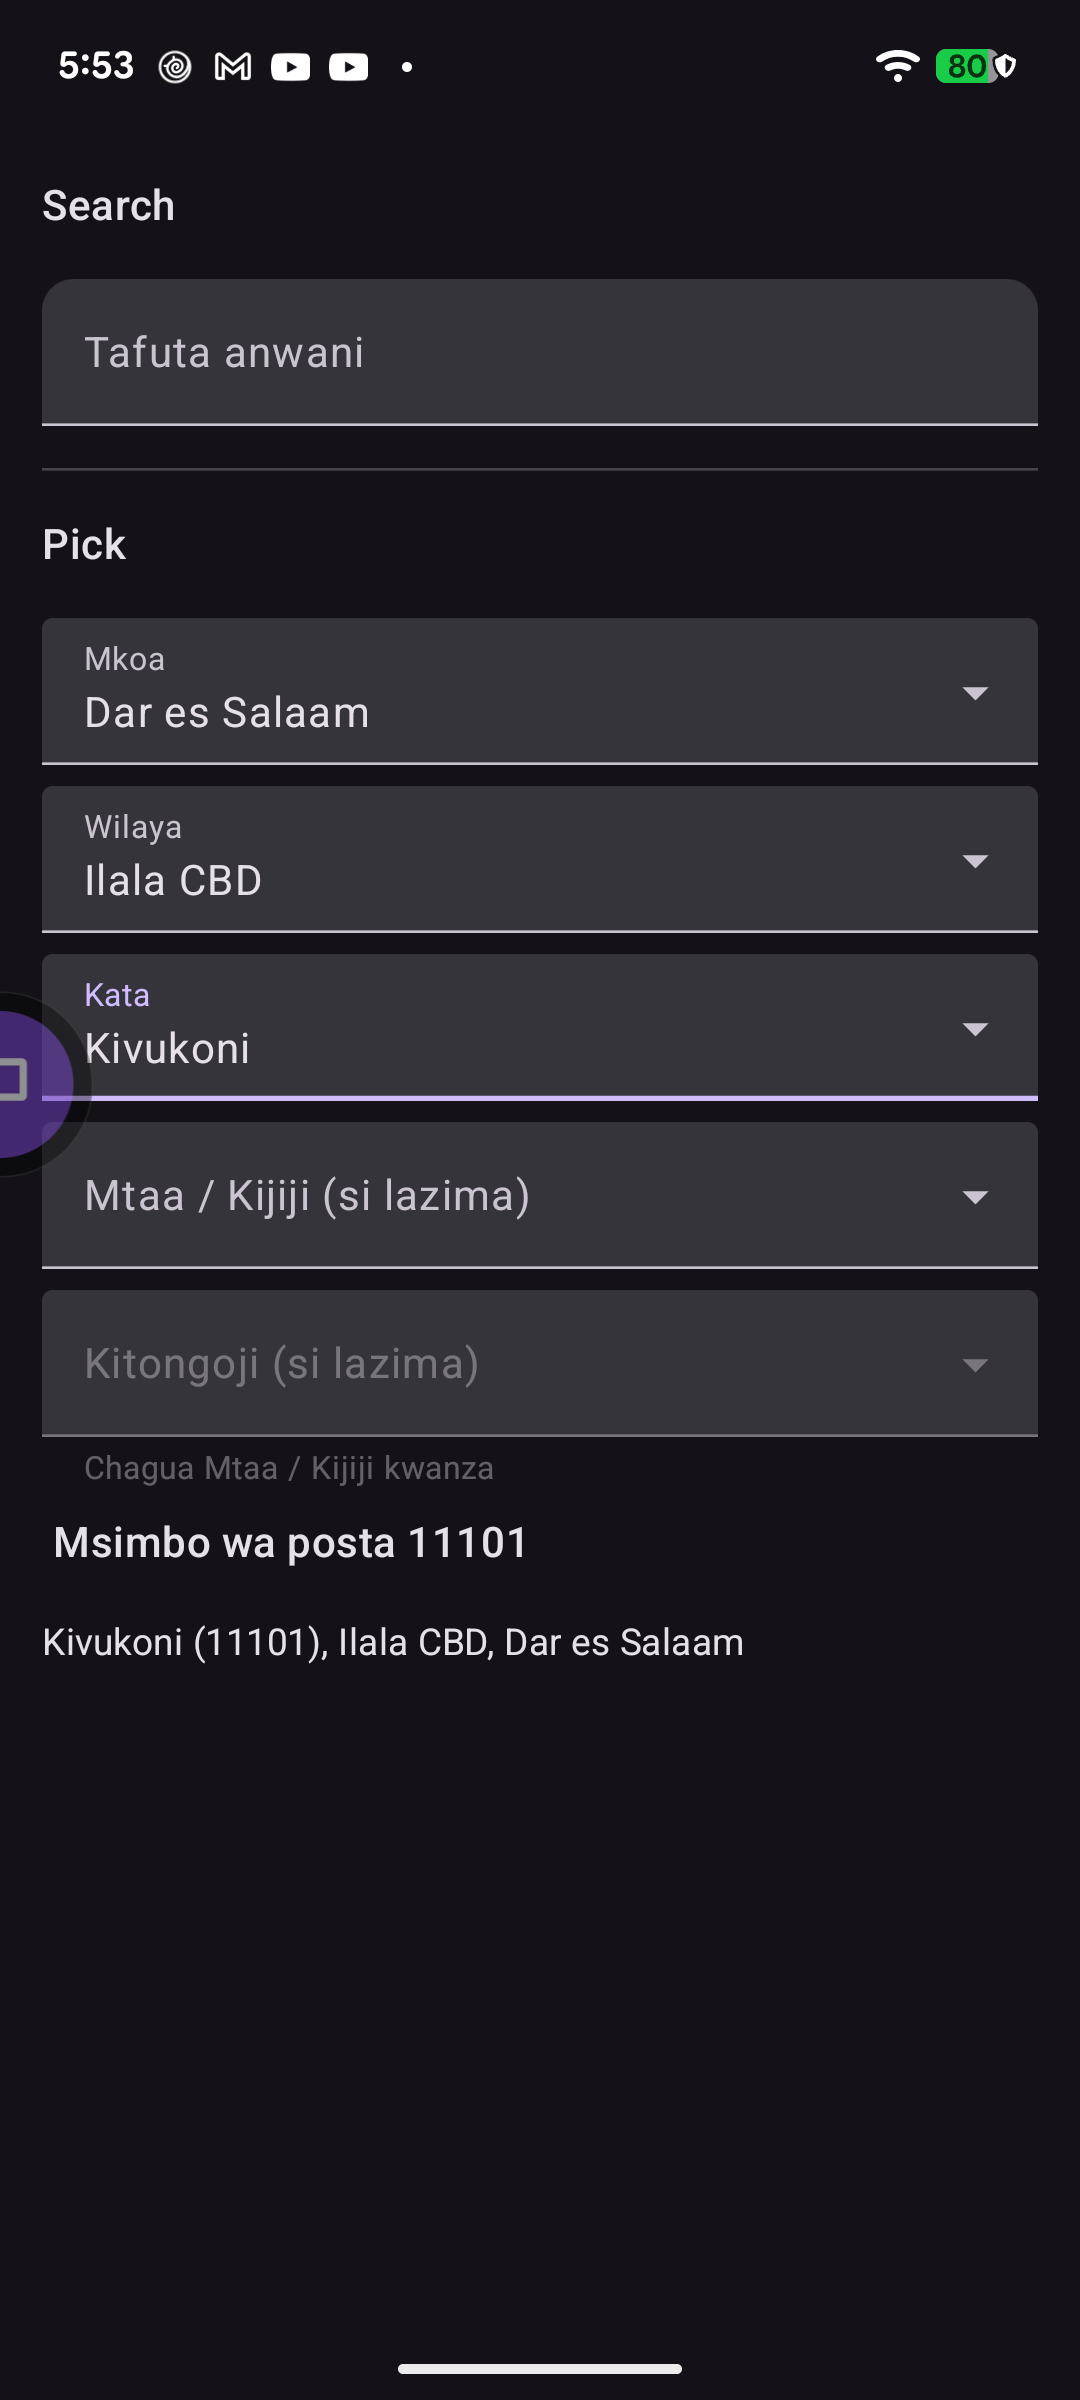
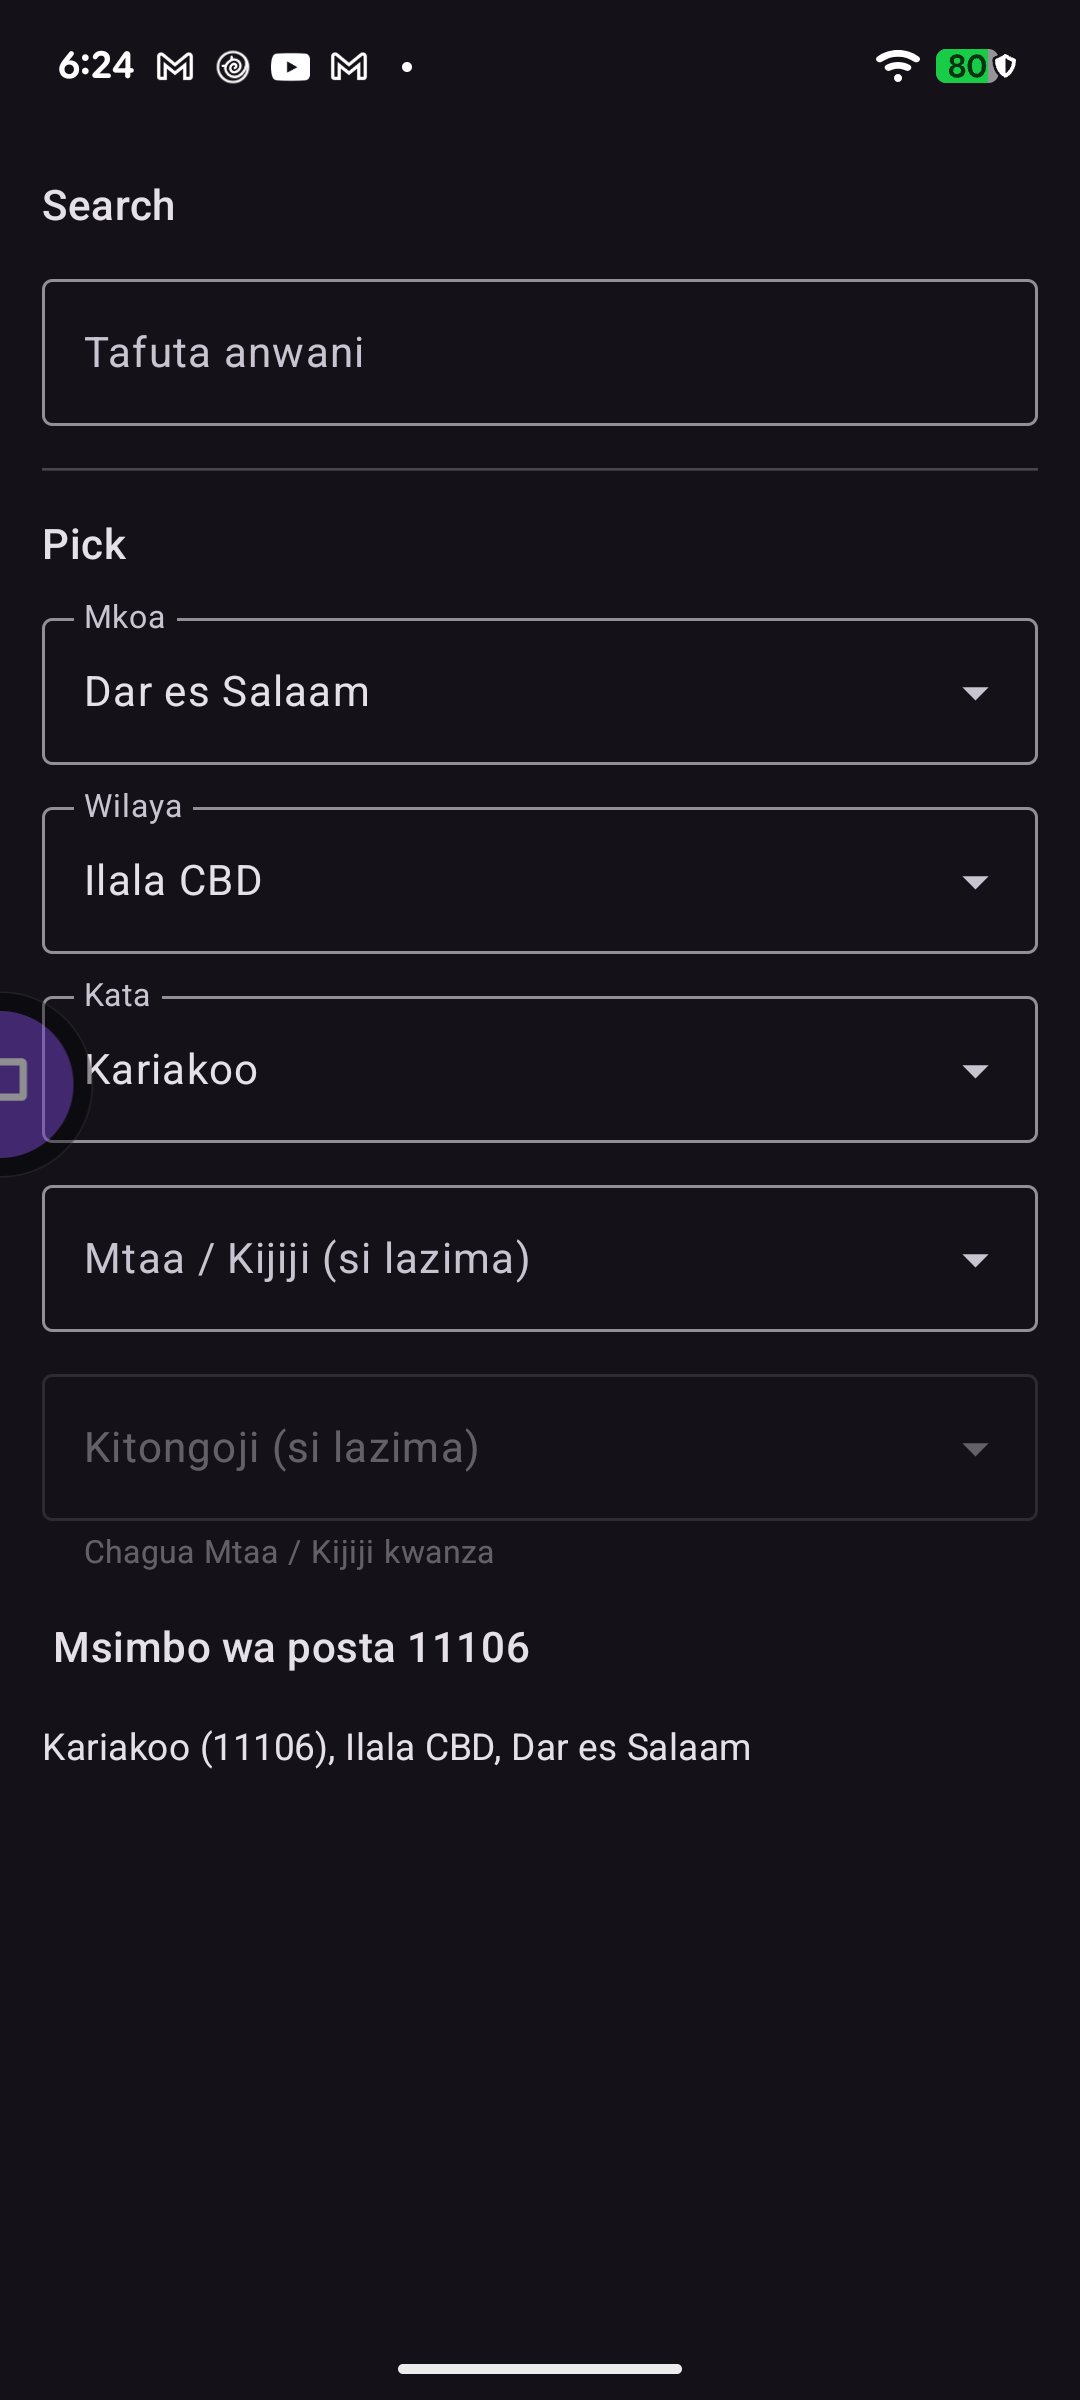
ui: move to forminput-compose 2.1.0 and retake the widget screenshots
The search field and level dropdowns use the new FormInputTextField and FormInputDropDownField (outlined), with runtime labels.

diff --git a/ui/src/commonMain/kotlin/com/omarshehe/tzaddress/ui/LevelDropdown.kt b/ui/src/commonMain/kotlin/com/omarshehe/tzaddress/ui/LevelDropdown.kt
@@ -5,10 +5,9 @@ import androidx.compose.runtime.Composable
 import androidx.compose.runtime.remember
 import androidx.compose.ui.Modifier
 import androidx.compose.ui.platform.testTag
-import com.omarshehe.forminput.compose.ui.FormInputDropDownOption
+import com.omarshehe.forminput.compose.ui.FormInputDropDownField
 import com.omarshehe.forminput.compose.ui.model.DropDownOptionModel
 import com.omarshehe.forminput.compose.ui.model.FormInputDropDownState
-import com.omarshehe.forminput.compose.ui.model.FormInputType
 import com.omarshehe.tzaddress.Level
 import com.omarshehe.tzaddress.ui.resources.Res
 import com.omarshehe.tzaddress.ui.resources.picker_none_listed
@@ -36,20 +35,19 @@ internal fun LevelDropdown(
 
     val data = remember(state.options, state.selectedId, label) {
         FormInputDropDownState(
+            id = levelTag(state.level),
+            label = label,
+            placeholder = selectPlaceholder,
             value = state.options.firstOrNull { it.id == state.selectedId }
                 ?.let { DropDownOptionModel(it.id, it.label) } ?: DropDownOptionModel(),
             options = state.options.map { DropDownOptionModel(it.id, it.label) },
-            id = levelTag(state.level),
-            labelValue = label,
-            placeholderValue = selectPlaceholder,
-            type = FormInputType.DROP_DOWN,
         )
     }
 
-    FormInputDropDownOption(
+    FormInputDropDownField(
         modifier = modifier.fillMaxWidth(),
         fieldModifier = Modifier.testTag(levelTag(state.level)),
-        formInputData = data,
+        state = data,
         enabled = state.enabled,
         supportingText = support,
         onSelected = { onSelect(it.value.id) },

diff --git a/ui/src/commonMain/kotlin/com/omarshehe/tzaddress/ui/AddressSearchField.kt b/ui/src/commonMain/kotlin/com/omarshehe/tzaddress/ui/AddressSearchField.kt
@@ -53,12 +53,12 @@ public fun AddressSearchField(
 
     Column(modifier) {
         FormInputTextField(
-            formInputData = FormInputTextFieldState(
-                value = text,
+            state = FormInputTextFieldState(
                 id = "address-search",
-                labelValue = label,
-                placeholderValue = placeholder,
                 type = FormInputType.TEXT,
+                value = text,
+                label = label,
+                placeholder = placeholder,
             ),
             textModifier = Modifier.testTag(SEARCH_FIELD_TAG),
             onValueChange = {

diff --git a/README.md b/README.md
@@ -24,7 +24,7 @@ Tanzanian postcode list (see <https://www.tanzaniapostcode.com/> and
 |---|---|---|
 | `io.github.omarshehe:tz-address-core` | the model and the `AddressRepository` interface | Kotlin 2.2+ (iOS/native: 2.4+) |
 | `io.github.omarshehe:tz-address-data` | the bundled database and the repository (includes `core`) | Kotlin 2.2+ (iOS/native: 2.4+) |
-| `io.github.omarshehe:tz-address-ui` | `AddressSearchField` and `AddressPicker` (Compose) | Compose Multiplatform 1.12, built with Kotlin 2.4, and [`forminput-compose`](https://github.com/OmarShehe/FormInputs) 2.0.0 (pulled in transitively) |
+| `io.github.omarshehe:tz-address-ui` | `AddressSearchField` and `AddressPicker` (Compose) | Compose Multiplatform 1.12, built with Kotlin 2.4, and [`forminput-compose`](https://github.com/OmarShehe/FormInputs) 2.1.0 (pulled in transitively) |
 
 Targets: Android (minSdk 21 for `core`, **23** for `data` and `ui`, which their dependencies require), JVM 17, iOS (arm64 and
 simulator arm64). Backends and headless apps use `core` + `data` and

diff --git a/CHANGELOG.md b/CHANGELOG.md
@@ -4,7 +4,7 @@ Versions follow [semantic versioning](README.md#versioning). Every release recor
 
 ## Unreleased
 
-- `tz-address-ui`: the search field and the level dropdowns now use `forminput-compose` 2.0.0 (filled text field and dropdown styling).
+- `tz-address-ui`: the search field and the level dropdowns now use `forminput-compose` 2.1.0 (outlined text field and dropdown).
 
 ## 0.1.0 (unreleased)
 
